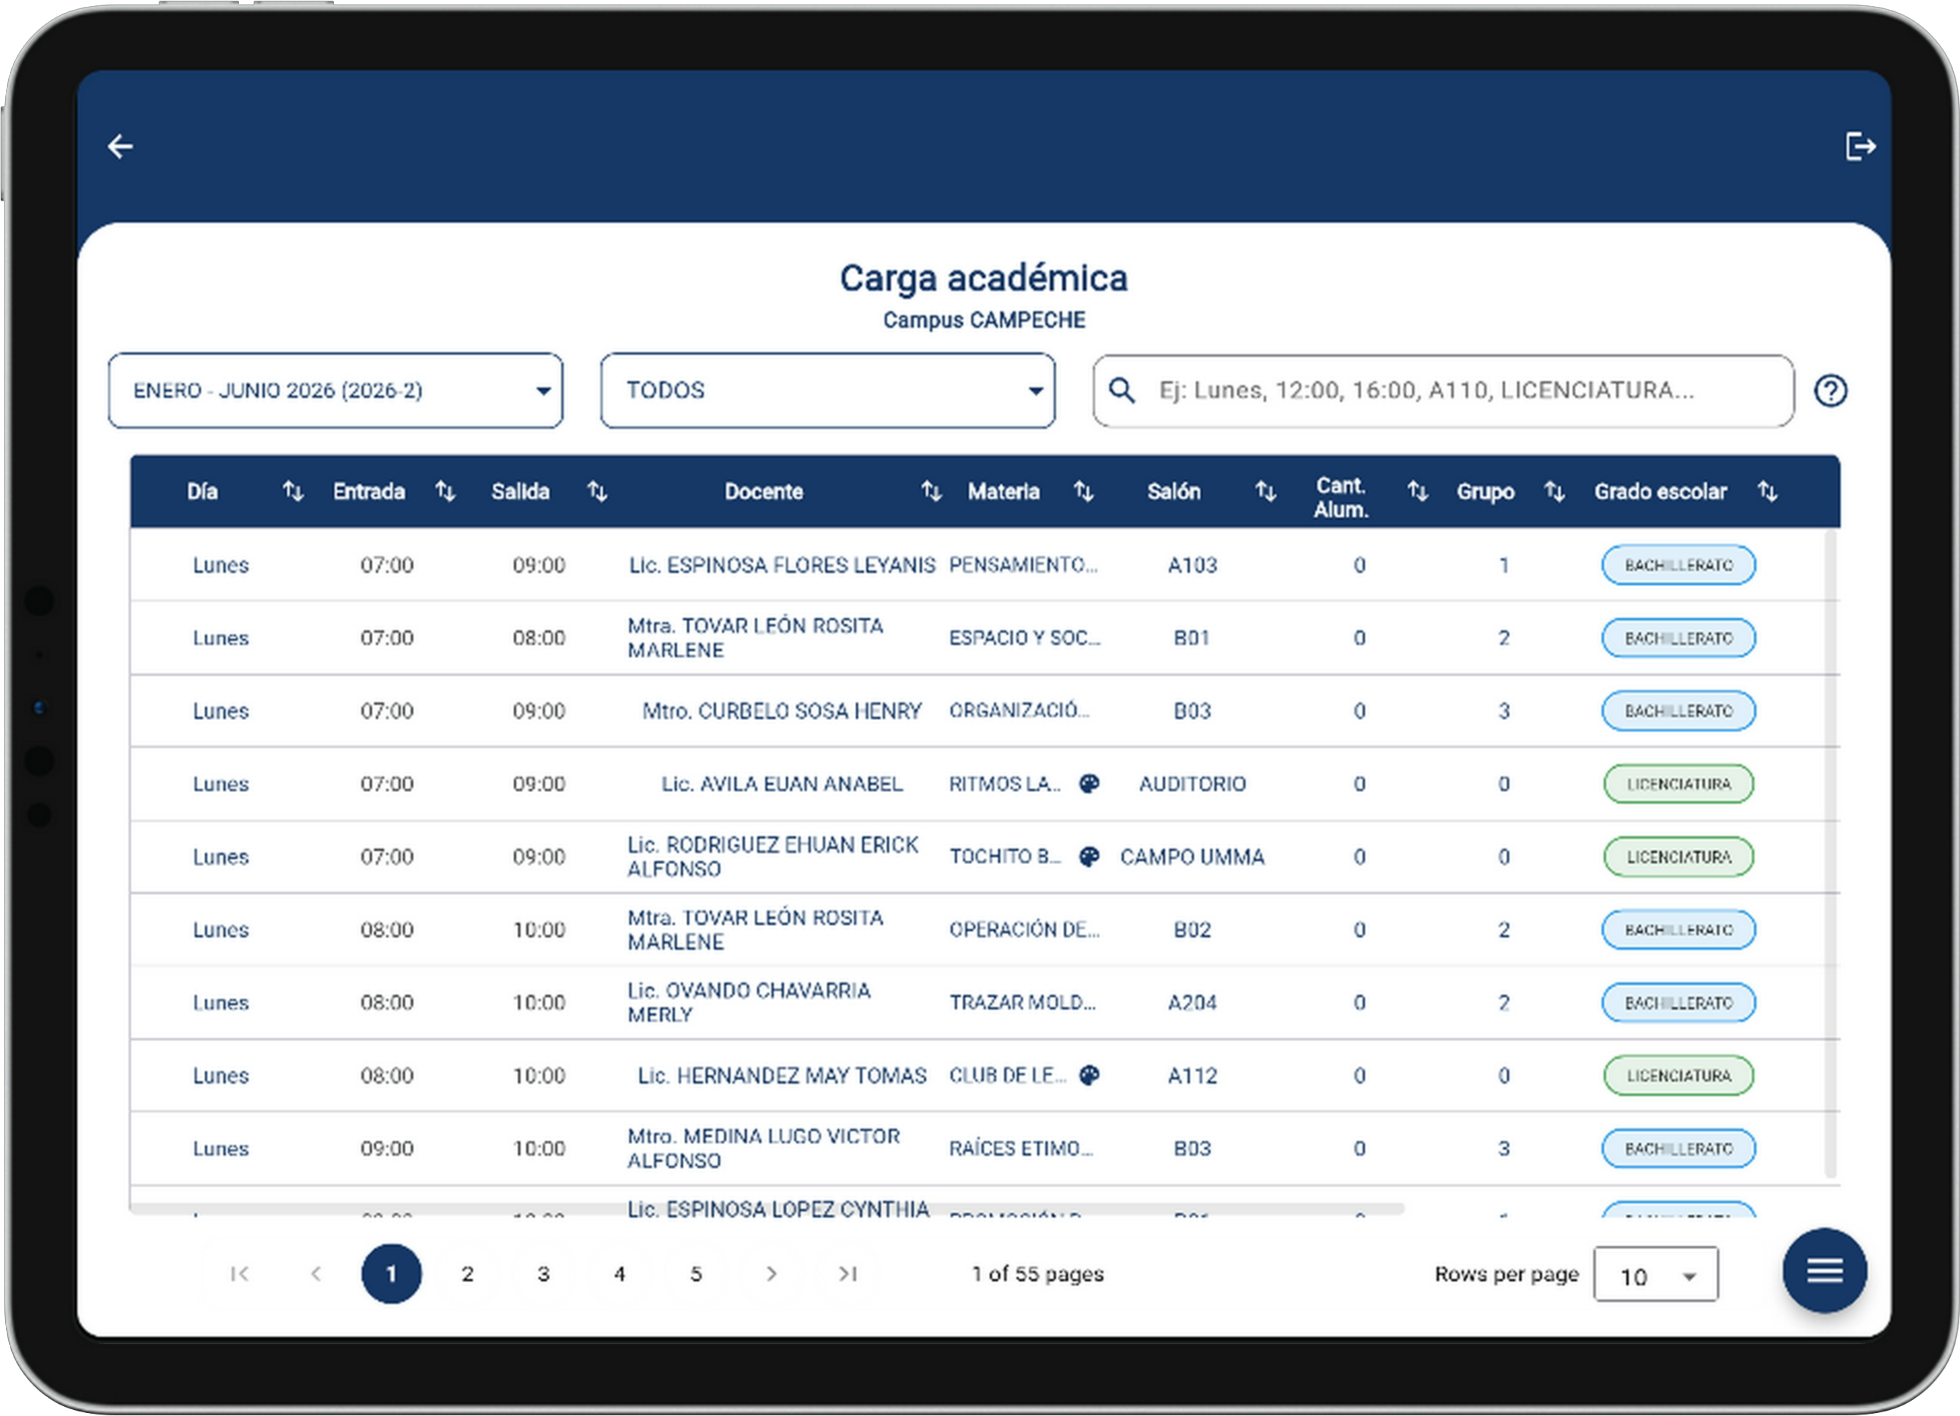
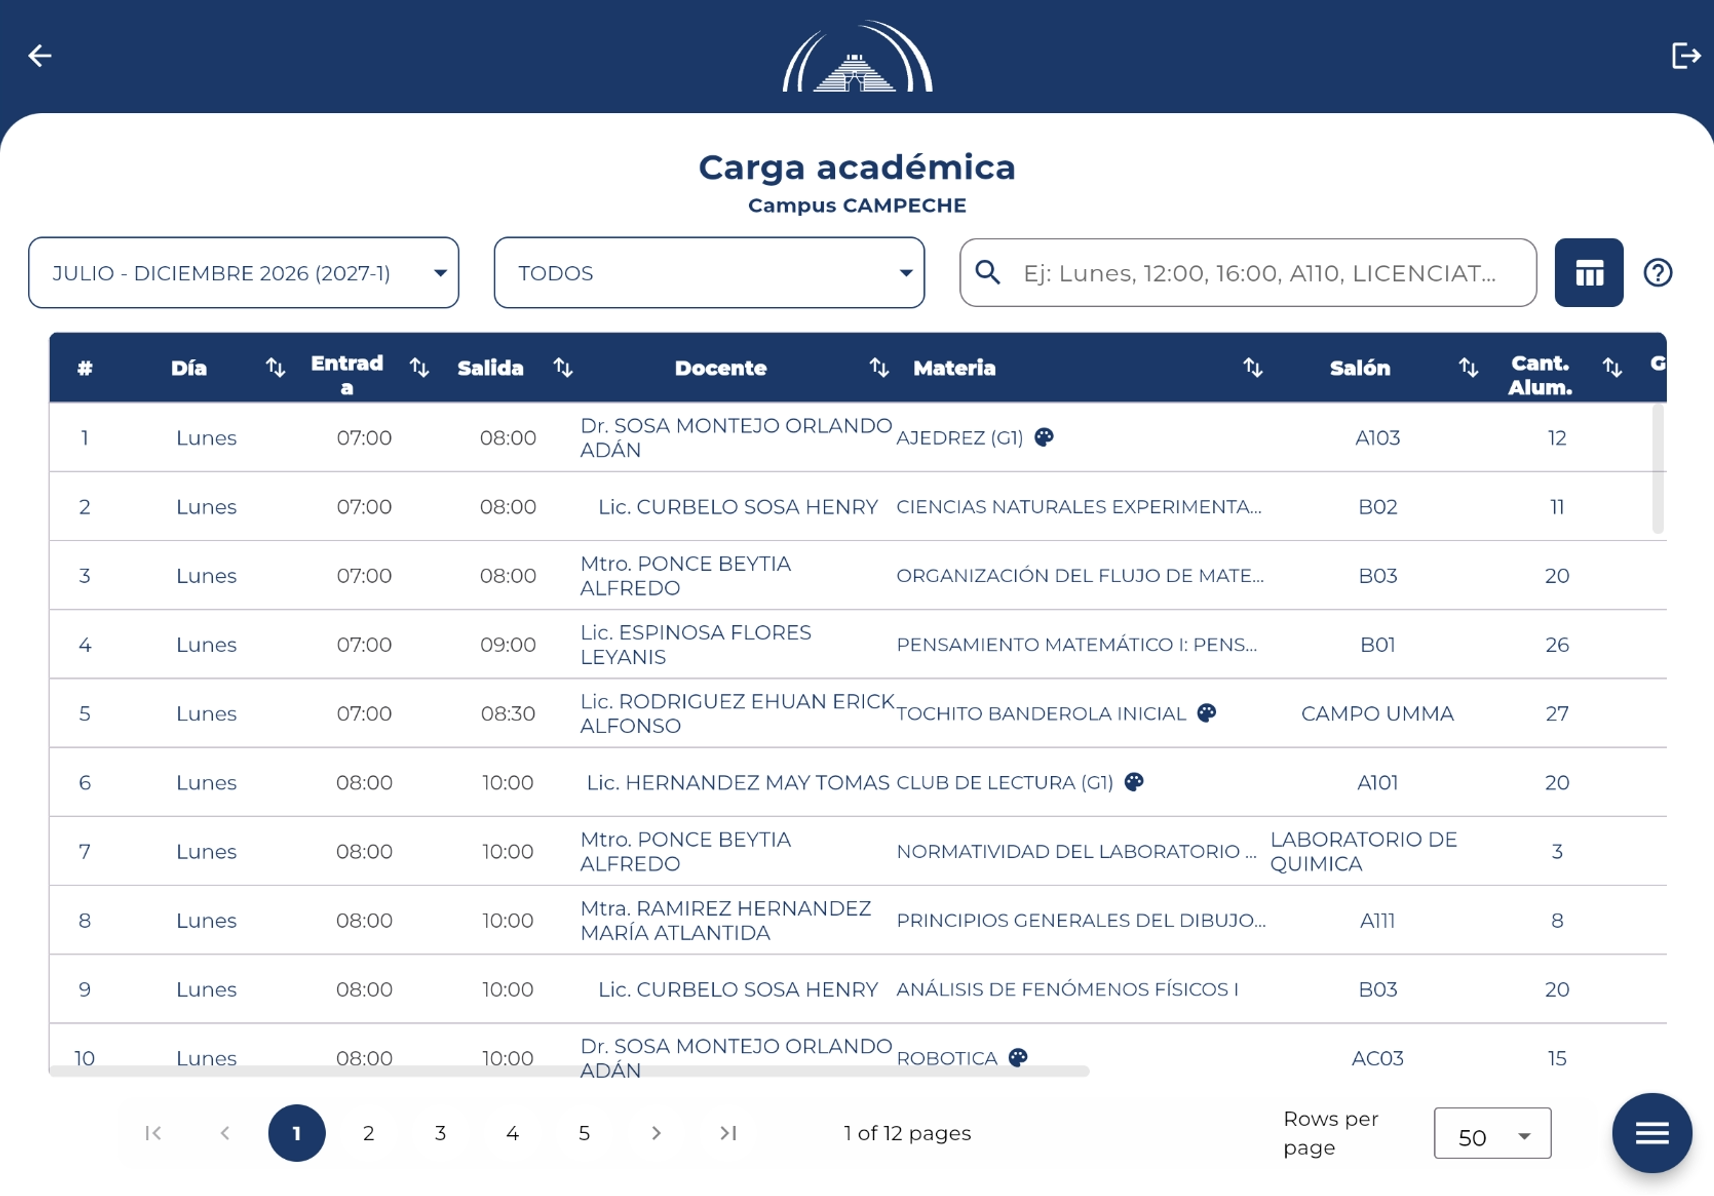
Actualizaciones

diff --git a/src/css/custom.css b/src/css/custom.css
@@ -12,27 +12,103 @@
 /* ============================================================
    2. LAYOUT, NAVBAR Y HERO
    ============================================================ */
-.navbar { background-color: var(--umma-navbar) !important; border-bottom: 1px solid rgba(255, 255, 255, 0.1) !important; }
-.navbar__link, .navbar__title, .navbar__brand { color: var(--nav-text) !important; }
-.hero--primary { background-color: transparent !important; }
+.navbar { 
+  background-color: var(--umma-navbar) !important; 
+  border-bottom: 1px solid rgba(255, 255, 255, 0.1) !important; 
+}
+.navbar__link, .navbar__title, .navbar__brand { 
+  color: var(--nav-text) !important; 
+}
+.hero--primary { 
+  background-color: transparent !important; 
+}
 
-/* Fondo unificado para que coincida con el sidebar en las vistas de documentación */
+/* Fondo unificado para el área de documentación */
 .main-wrapper { 
   background-color: var(--sidebar-bg) !important; 
 }
 
+/* Degradado de la página de inicio (Ajustado para responder bien en móvil sin alterar tus variables) */
 .main-wrapper:not(:has(.theme-doc-sidebar-container)) {
-  background: linear-gradient(to bottom, var(--umma-hero) 0%, var(--umma-hero) 55%, var(--umma-hero2) 45%, var(--umma-hero2) 100%) !important;
-  background-attachment: fixed !important;
+  background: linear-gradient(
+    to bottom, 
+    var(--umma-hero) 0%, 
+    var(--umma-hero) 330px, 
+    var(--umma-hero2) 330px, 
+    var(--umma-hero2) 100%
+  ) !important;
+  background-size: 100% auto !important;
+  background-repeat: no-repeat !important;
 }
 
-.hero, [class*="heroBanner"] { display: flex !important; flex-direction: column !important; align-items: center !important; padding: 0 !important; }
-html[data-theme='light'] .hero::before { content: ""; display: block; width: 350px; height: 220px; background-image: url('/img/Umma_Azul.png') !important; background-size: contain; background-repeat: no-repeat; margin-bottom: -35px !important; }
-html[data-theme='dark'] .hero::before { content: ""; display: block; width: 350px; height: 220px; background-image: url('/img/Umma_Blanco.png') !important; background-size: contain; background-repeat: no-repeat; margin-bottom: -35px !important; }
+.hero, [class*="heroBanner"] { 
+  display: flex !important; 
+  flex-direction: column !important; 
+  align-items: center !important; 
+  padding: 0 !important; 
+}
 
-.hero__title { font-family: 'Gelasio', serif !important; font-size: 4rem !important; color: var(--hero-text) !important; line-height: 1.85 !important; }
-.hero__subtitle { color: var(--hero-text) !important; margin-top: -50px !important; font-size: 2.5rem !important; }
-[data-theme='dark'] .hero__title, [data-theme='dark'] .hero__subtitle { color: #ffffff !important; }
+html[data-theme='light'] .hero::before { 
+  content: ""; 
+  display: block; 
+  width: 350px; 
+  height: 220px; 
+  background-image: url('/img/Umma_Azul.png') !important; 
+  background-size: contain; 
+  background-repeat: no-repeat; 
+  background-position: center;
+  margin-bottom: -35px !important; 
+}
+
+html[data-theme='dark'] .hero::before { 
+  content: ""; 
+  display: block; 
+  width: 350px; 
+  height: 220px; 
+  background-image: url('/img/Umma_Blanco.png') !important; 
+  background-size: contain; 
+  background-repeat: no-repeat; 
+  background-position: center;
+  margin-bottom: -35px !important; 
+}
+
+.hero__title { 
+  font-family: 'Gelasio', serif !important; 
+  font-size: 4rem !important; 
+  color: var(--hero-text) !important; 
+  line-height: 1.85 !important; 
+}
+
+.hero__subtitle { 
+  color: var(--hero-text) !important; 
+  margin-top: -50px !important; 
+  font-size: 2.5rem !important; 
+}
+
+[data-theme='dark'] .hero__title, 
+[data-theme='dark'] .hero__subtitle { 
+  color: #ffffff !important; 
+}
+
+/* Ajuste sutil de proporciones del logo/texto en celular sin alterar colores */
+@media (max-width: 768px) {
+  html[data-theme='light'] .hero::before,
+  html[data-theme='dark'] .hero::before {
+    width: 260px !important;
+    height: 160px !important;
+    margin-bottom: -20px !important;
+  }
+
+  .hero__title {
+    font-size: 2.5rem !important;
+    line-height: 1.3 !important;
+  }
+
+  .hero__subtitle {
+    font-size: 1.5rem !important;
+    margin-top: -10px !important;
+  }
+}
 
 /* ============================================================
    3. SISTEMA DE TARJETAS (Aislado por contenedor)
@@ -264,3 +340,44 @@ html[data-theme='dark'] .link-destacado:hover {
   }
 }
 /* --- PARA EL CELULAR TARJETAS --- */
+
+/* ============================================================
+   6. OPTIMIZACIÓN RESPONSIVA Y MODO OSCURO (MÓVIL)
+   ============================================================ */
+
+@media (max-width: 768px) {
+  /* Ocultar la pirámide/logo en celular */
+  html[data-theme='light'] .hero::before,
+  html[data-theme='dark'] .hero::before {
+    display: none !important;
+  }
+
+  /* Ajustar espacio del banner hero sin el logo */
+  .hero, [class*="heroBanner"] { 
+    padding: 30px 15px 25px 15px !important; 
+  }
+
+  /* Texto del encabezado más grande para móvil */
+  .hero__title {
+    font-size: 3.0 rem !important; /* Incrementado de 2.1rem */
+    line-height: 1.25 !important;
+    margin-top: 0 !important;
+  }
+
+  .hero__subtitle {
+    font-size: 2.0 rem !important; /* Incrementado de 1.3rem */
+    margin-top: 8px !important;
+  }
+
+  /* Fondo ajustado para dar cabida al texto más grande */
+  .main-wrapper:not(:has(.theme-doc-sidebar-container)) {
+    background: linear-gradient(
+      to bottom, 
+      var(--umma-hero) 0%, 
+      var(--umma-hero) 220px, 
+      var(--umma-hero2) 220px, 
+      var(--umma-hero2) 100%
+    ) !important;
+  }
+}
+

diff --git a/docs/Docentes/Control_asistencias.md b/docs/Docentes/Control_asistencias.md
@@ -93,15 +93,12 @@ export const ArrowSlider = () => {
   );
 };
 
-{/* Contenedor Adaptable */}
 <div className="responsive-container">
 
-  {/* Columna del Slider */}
   <div className="slider-column">
     <ArrowSlider />
   </div>
 
-  {/* Columna de Texto con HTML puro para listas */}
   <div className="text-column">
 
 <p>Este módulo es la herramienta principal para el monitoreo de la puntualidad y el cumplimiento de la carga horaria del profesorado. Permite a la administración tener un registro detallado de la operatividad diaria en las aulas, garantizando que el servicio educativo se imparta conforme a la planeación.</p>
@@ -144,7 +141,6 @@ export const ArrowSlider = () => {
 
 </div>
 
-{/* CSS Responsivo */}
 <style>{`
   .responsive-container {
     display: flex;

diff --git a/docs/Administrativos/Seguridad/Ajustes.md b/docs/Administrativos/Seguridad/Ajustes.md
@@ -1,6 +1,6 @@
 ---
 title: Ajustes Visita
-pagination_next: Administrativos/Seguridad/Modo_Tablet/index
+pagination_next: Administrativos/Seguridad/Modo_Tablet
 hide_table_of_contents: true
 ---
 

diff --git a/docs/Administrativos/Carga_Academica/Agregar_Carga.md b/docs/Administrativos/Carga_Academica/Agregar_Carga.md
@@ -1,5 +1,5 @@
 ---
-title: Carga Académica
+title: Agregar Académica
 sidebar_position: 1
 hide_table_of_contents: true
 ---
